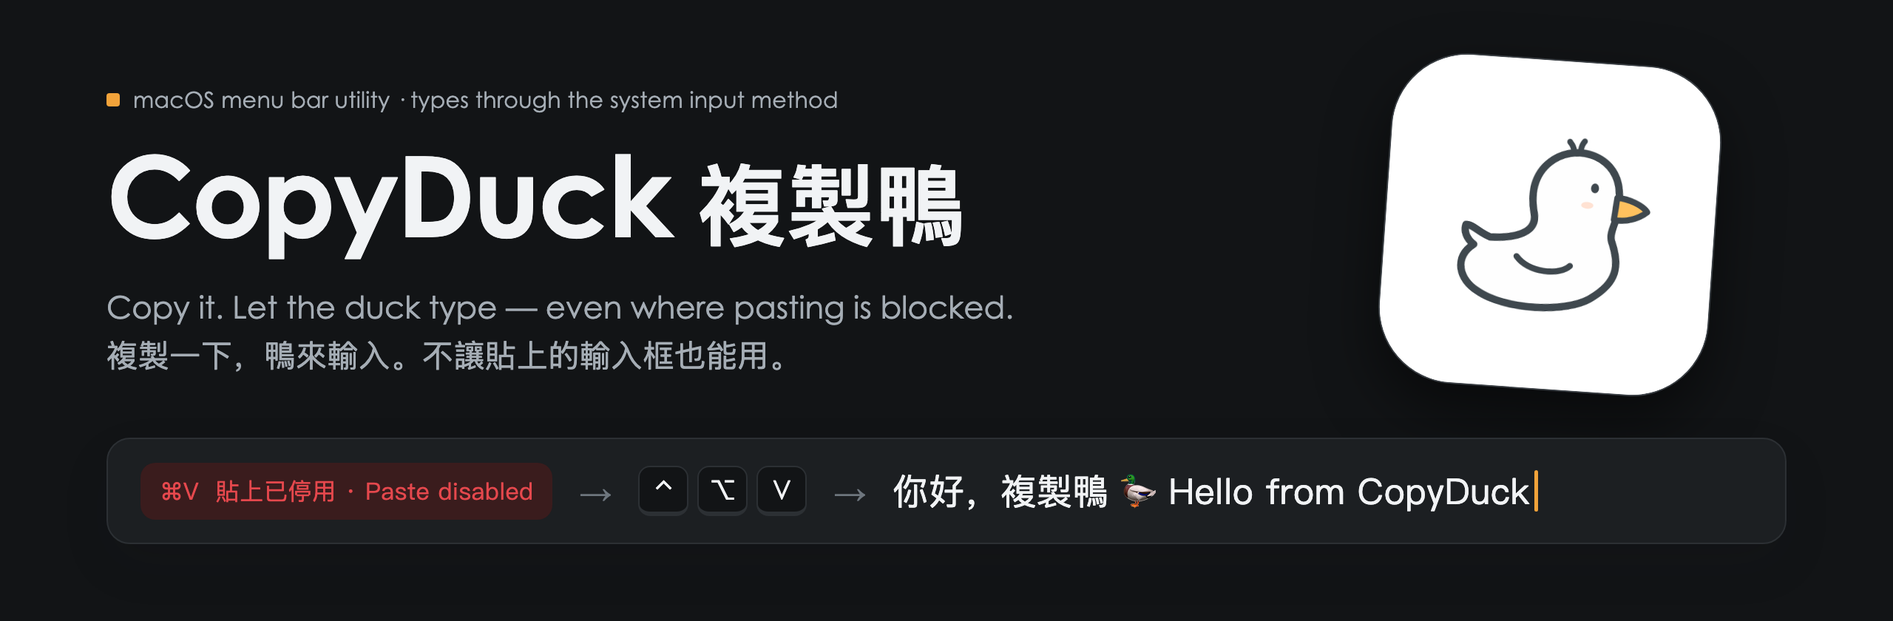
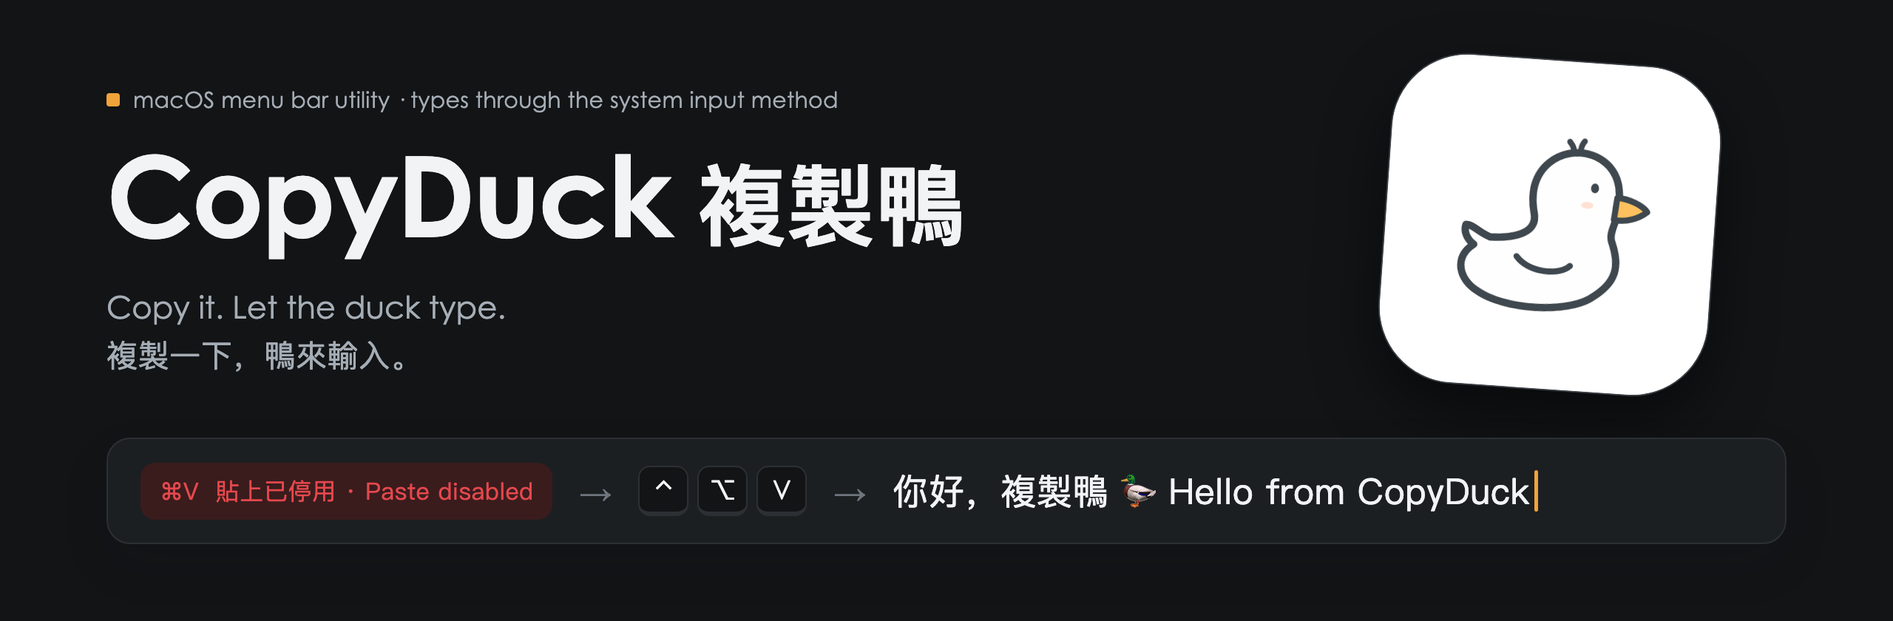
docs: drop the compatibility warning and tighten README copy
Remove the macOS compatibility and resource warning from the READMEs and
the three intro pages. Banners keep only the original tagline. The
requirements table now says Apple Silicon only instead of implying an
Intel build is coming.

Changed region(s): [[0.2188, 0.4643, 0.5312, 0.619]]

diff --git a/docs/en/index.html b/docs/en/index.html
@@ -6,7 +6,7 @@
 <link rel="canonical" href="https://yuanruoyu515.github.io/CopyDuck/en/index.html"><link rel="alternate" hreflang="zh-Hans" href="https://yuanruoyu515.github.io/CopyDuck/index.html"><link rel="alternate" hreflang="zh-Hant" href="https://yuanruoyu515.github.io/CopyDuck/zh-Hant/index.html"><link rel="alternate" hreflang="en" href="https://yuanruoyu515.github.io/CopyDuck/en/index.html"><link rel="icon" href="../assets/favicon.png"><link rel="stylesheet" href="../style.css"></head>
 <body><a class="skip" href="#main">Skip to content</a>
 <header><div class="top wrap"><a class="brand" href="../en/index.html"><img src="../assets/favicon.png" alt="" width="42" height="42">CopyDuck</a><nav class="language" aria-label="Choose language"><a href="../index.html" lang="zh-Hans" hreflang="zh-Hans">简体中文</a><a href="../zh-Hant/index.html" lang="zh-Hant" hreflang="zh-Hant">繁體中文</a><a href="../en/index.html" lang="en" hreflang="en" aria-current="page">English</a></nav></div></header>
-<main id="main" class="wrap"><aside class="compatibility-warning" role="note"><strong>⚠ Compatibility and resource usage warning</strong><p>Currently verified only on macOS 27.0.1. Compatibility with macOS versions earlier than 27 is not guaranteed. A user reported extremely high memory and CPU usage on macOS 26 with a version released before the startup fix; the newer version has not yet been verified on that system. If this occurs, quit CopyDuck; if it is unresponsive, end its process in Activity Monitor.</p></aside><section class="hero"><div><p class="eyebrow">A little duck for your Mac</p><h1>Copy it.<br>Let the duck type.</h1><p class="lead">💢 An input field blocks pasting or distinguishes pasted text from regular input, leaving you to type everything again?</p><p class="lead">🐤 CopyDuck is a lightweight macOS menu bar utility. Press a shortcut to insert plain text from your clipboard into the active input field through the system input method. It helps with some websites and apps that disable pasting or intercept paste shortcuts while still supporting system input methods, saving you from retyping long passages. It supports Chinese, English, line breaks and emoji. All text processing happens locally on your Mac, with no uploads or clipboard history.</p><div class="actions"><a class="button primary" href="https://github.com/yuanruoyu515/CopyDuck/releases/download/v1.2.3/CopyDuck-1.2.3-arm64.dmg">Download 1.2.3 <span aria-hidden="true">↓</span></a><a class="button" href="https://github.com/yuanruoyu515/CopyDuck">View source <span aria-hidden="true">↗</span></a></div><p class="compatibility">Apple Silicon · Minimum build target: macOS 14 · Verified only on macOS 27.0.1</p></div>
+<main id="main" class="wrap"><section class="hero"><div><p class="eyebrow">A little duck for your Mac</p><h1>Copy it.<br>Let the duck type.</h1><p class="lead">💢 An input field blocks pasting or distinguishes pasted text from regular input, leaving you to type everything again?</p><p class="lead">🐤 CopyDuck is a lightweight macOS menu bar utility. Press a shortcut to insert plain text from your clipboard into the active input field through the system input method. It helps with some websites and apps that disable pasting or intercept paste shortcuts while still supporting system input methods, saving you from retyping long passages. It supports Chinese, English, line breaks and emoji. All text processing happens locally on your Mac, with no uploads or clipboard history.</p><div class="actions"><a class="button primary" href="https://github.com/yuanruoyu515/CopyDuck/releases/download/v1.2.3/CopyDuck-1.2.3-arm64.dmg">Download 1.2.3 <span aria-hidden="true">↓</span></a><a class="button" href="https://github.com/yuanruoyu515/CopyDuck">View source <span aria-hidden="true">↗</span></a></div><p class="compatibility">Apple Silicon · Minimum build target: macOS 14 · Verified only on macOS 27.0.1</p></div>
 <div class="duck-stage"><div class="duck-card"><img src="../assets/duck.png" alt="" width="512" height="512" fetchpriority="high"></div><div class="shortcut"><span>Illustration · Default shortcut</span><div aria-label="Control Option V"><kbd>⌃</kbd> <kbd>⌥</kbd> <kbd>V</kbd></div></div><p class="example-text">Copy text → Click an input field → Press your shortcut</p></div></section>
 <section class="section"><div class="intro"><h2>💦 The inspiration</h2><p>The author was struggling to finish assignments in AP CSA when Albert was configured to block pasting. The workaround was to keep changing the input method’s text shortcuts to get the text into the field, bit by bit… That frustration led to CopyDuck.</p></div></section>
 <section class="section"><div class="intro"><h2>Give your clipboard an input method.</h2><p>CopyDuck appears under Simplified Chinese input sources. When you press the shortcut, it reads the latest clipboard text, temporarily selects its input source, inserts the whole text at once or types it character by character, then restores your previous input method. Copying something else while typing does not change the current request.</p></div><ol class="flow"><li><span class="number">01</span><h3>Copy</h3><p>Copy some plain text.</p></li><li><span class="number">02</span><h3>Focus</h3><p>Click where you want to type.</p></li><li><span class="number">03</span><h3>Insert</h3><p>Press your shortcut. Let the duck type.</p></li></ol><div class="features"><article><h3>Your shortcut</h3><p>Start with ⌃⌥V, or choose your own in Settings.</p></article><article><h3>A home in the menu bar</h3><p>No Dock icon. Closing Settings keeps the duck running.</p></article><article><h3>Optional launch at login</h3><p>Enable it when you want CopyDuck ready after login.</p></article><article><h3>Text stays on your Mac</h3><p>Reads the clipboard only when triggered. No history, no network connection.</p></article><article><h3>Simulated typing</h3><p>Switch between Normal and Simulated Typing in Settings or the menu bar. Medium, Fast and Very Fast average about 5, 10 and 20 characters per second, with pauses at punctuation and line breaks. Mode and speed are remembered; speed changes apply to the next request. Press the shortcut again, type manually or change input focus to stop. Text already entered is kept.</p></article><article><h3>Input reliability and resource cleanup</h3><p>Improve first-trigger behavior in Word and prevent unintended typing cancellation. Release the Settings view on close; clear text references, callbacks and scheduled tasks when input finishes or is cancelled.</p></article><article><h3>Three interface languages</h3><p>Use the globe in the top right of Settings to switch languages. Your choice is saved.</p></article></div></section>

diff --git a/docs/zh-Hant/index.html b/docs/zh-Hant/index.html
@@ -6,7 +6,7 @@
 <link rel="canonical" href="https://yuanruoyu515.github.io/CopyDuck/zh-Hant/index.html"><link rel="alternate" hreflang="zh-Hans" href="https://yuanruoyu515.github.io/CopyDuck/index.html"><link rel="alternate" hreflang="zh-Hant" href="https://yuanruoyu515.github.io/CopyDuck/zh-Hant/index.html"><link rel="alternate" hreflang="en" href="https://yuanruoyu515.github.io/CopyDuck/en/index.html"><link rel="icon" href="../assets/favicon.png"><link rel="stylesheet" href="../style.css"></head>
 <body><a class="skip" href="#main">跳至主要內容</a>
 <header><div class="top wrap"><a class="brand" href="../zh-Hant/index.html"><img src="../assets/favicon.png" alt="" width="42" height="42">複製鴨</a><nav class="language" aria-label="選擇語言"><a href="../index.html" lang="zh-Hans" hreflang="zh-Hans">简体中文</a><a href="../zh-Hant/index.html" lang="zh-Hant" hreflang="zh-Hant" aria-current="page">繁體中文</a><a href="../en/index.html" lang="en" hreflang="en">English</a></nav></div></header>
-<main id="main" class="wrap"><aside class="compatibility-warning" role="note"><strong>⚠ 相容性與資源占用提醒</strong><p>目前僅在 macOS 27.0.1 上驗證，不保證 macOS 27 以下版本可用。已有使用者回報：修復前版本在 macOS 26 上出現記憶體與 CPU 使用量異常飆升；新版在該系統上的表現仍待驗證。如遇異常，請立即結束複製鴨；無法結束時，可在「活動監視器」中結束 CopyDuck 程序。</p></aside><section class="hero"><div><p class="eyebrow">給 Mac 的小鴨子</p><h1>複製一下，<br>鴨來輸入。</h1><p class="lead">💢 輸入框不讓貼上，或是會區分貼上與一般輸入，讓你只能重新手打一遍？</p><p class="lead">🐤 複製鴨（CopyDuck）是一款輕量的 macOS 選單列工具：按下快捷鍵，就能透過系統輸入法，將剪貼簿中的純文字直接輸入目前的輸入框。它適用於部分停用貼上、攔截貼上快捷鍵，但仍支援系統輸入法的網頁和應用程式，減少重複輸入長段文字的麻煩。支援中文、英文、換行和表情，文字處理全程在本機完成，不上傳內容，也不儲存剪貼簿歷史。</p><div class="actions"><a class="button primary" href="https://github.com/yuanruoyu515/CopyDuck/releases/download/v1.2.3/CopyDuck-1.2.3-arm64.dmg">下載 1.2.3 <span aria-hidden="true">↓</span></a><a class="button" href="https://github.com/yuanruoyu515/CopyDuck">檢視原始碼 <span aria-hidden="true">↗</span></a></div><p class="compatibility">Apple Silicon · 建置最低版本 macOS 14 · 僅在 macOS 27.0.1 上驗證</p></div>
+<main id="main" class="wrap"><section class="hero"><div><p class="eyebrow">給 Mac 的小鴨子</p><h1>複製一下，<br>鴨來輸入。</h1><p class="lead">💢 輸入框不讓貼上，或是會區分貼上與一般輸入，讓你只能重新手打一遍？</p><p class="lead">🐤 複製鴨（CopyDuck）是一款輕量的 macOS 選單列工具：按下快捷鍵，就能透過系統輸入法，將剪貼簿中的純文字直接輸入目前的輸入框。它適用於部分停用貼上、攔截貼上快捷鍵，但仍支援系統輸入法的網頁和應用程式，減少重複輸入長段文字的麻煩。支援中文、英文、換行和表情，文字處理全程在本機完成，不上傳內容，也不儲存剪貼簿歷史。</p><div class="actions"><a class="button primary" href="https://github.com/yuanruoyu515/CopyDuck/releases/download/v1.2.3/CopyDuck-1.2.3-arm64.dmg">下載 1.2.3 <span aria-hidden="true">↓</span></a><a class="button" href="https://github.com/yuanruoyu515/CopyDuck">檢視原始碼 <span aria-hidden="true">↗</span></a></div><p class="compatibility">Apple Silicon · 建置最低版本 macOS 14 · 僅在 macOS 27.0.1 上驗證</p></div>
 <div class="duck-stage"><div class="duck-card"><img src="../assets/duck.png" alt="" width="512" height="512" fetchpriority="high"></div><div class="shortcut"><span>使用示意 · 預設快捷鍵</span><div aria-label="Control Option V"><kbd>⌃</kbd> <kbd>⌥</kbd> <kbd>V</kbd></div></div><p class="example-text">複製文字 → 點選輸入位置 → 按下快捷鍵</p></div></section>
 <section class="section"><div class="intro"><h2>💦 靈感來源</h2><p>作者上 AP CSA 課時趕不完作業，偏偏 Albert 又被設定成不能貼上，只好反覆修改輸入法的快捷輸入詞，把文字一點一點塞進去……於是，就有了複製鴨。</p></div></section>
 <section class="section"><div class="intro"><h2>像輸入法一樣，把文字寫進去。</h2><p>複製鴨可以加入「簡體中文」輸入法列表。觸發快捷鍵時，它讀取最新剪貼簿、暫時切換輸入來源，依選取的模式一次寫入整段或逐字輸入，再恢復原本的輸入法。輸入途中複製其他文字不會改變本次內容。</p></div><ol class="flow"><li><span class="number">01</span><h3>複製</h3><p>複製一段純文字。</p></li><li><span class="number">02</span><h3>定位</h3><p>點選要輸入文字的位置。</p></li><li><span class="number">03</span><h3>輸入</h3><p>按下快捷鍵，鴨來寫進去。</p></li></ol><div class="features"><article><h3>你的快捷鍵</h3><p>預設 ⌃⌥V，也可以在設定中換成順手的組合。</p></article><article><h3>待在選單列</h3><p>不占 Dock；關閉設定視窗，仍在背景等你。</p></article><article><h3>登入時啟動可選</h3><p>需要時開啟，登入 Mac 後自動執行。</p></article><article><h3>文字留在本機</h3><p>按快捷鍵時才讀取剪貼簿，不儲存歷史，不連接網路。</p></article><article><h3>模擬輸入</h3><p>在設定或選單列切換一般模式／模擬輸入。中速、快速、特別快約為每秒 5、10、20 字，標點與換行稍作停頓。會記住模式和速度；速度調整從下次輸入生效。再次按快捷鍵、手動打字或切換輸入位置即可停止，已輸入的文字會保留。</p></article><article><h3>輸入穩定與資源清理</h3><p>改善 Word 首次觸發與模擬輸入誤停。關閉設定時釋放介面；輸入結束或取消後清理文字參照、回呼與計時任務。</p></article><article><h3>三語介面</h3><p>點選設定視窗右上角的地球圖示切換語言，選擇會自動儲存。</p></article></div></section>

diff --git a/docs/index.html b/docs/index.html
@@ -6,7 +6,7 @@
 <link rel="canonical" href="https://yuanruoyu515.github.io/CopyDuck/index.html"><link rel="alternate" hreflang="zh-Hans" href="https://yuanruoyu515.github.io/CopyDuck/index.html"><link rel="alternate" hreflang="zh-Hant" href="https://yuanruoyu515.github.io/CopyDuck/zh-Hant/index.html"><link rel="alternate" hreflang="en" href="https://yuanruoyu515.github.io/CopyDuck/en/index.html"><link rel="icon" href="assets/favicon.png"><link rel="stylesheet" href="style.css"></head>
 <body><a class="skip" href="#main">跳到主要内容</a>
 <header><div class="top wrap"><a class="brand" href="index.html"><img src="assets/favicon.png" alt="" width="42" height="42">复制鸭</a><nav class="language" aria-label="选择语言"><a href="index.html" lang="zh-Hans" hreflang="zh-Hans" aria-current="page">简体中文</a><a href="zh-Hant/index.html" lang="zh-Hant" hreflang="zh-Hant">繁體中文</a><a href="en/index.html" lang="en" hreflang="en">English</a></nav></div></header>
-<main id="main" class="wrap"><aside class="compatibility-warning" role="note"><strong>⚠ 兼容性与资源占用提醒</strong><p>目前仅在 macOS 27.0.1 上验证，不保证 macOS 27 以下版本可用。已有用户反馈：修复前版本在 macOS 26 上出现内存与 CPU 占用异常飙升；新版在该系统上的表现仍待验证。如遇异常，请立即退出复制鸭；无法退出时，可在活动监视器中结束 CopyDuck 进程。</p></aside><section class="hero"><div><p class="eyebrow">给 Mac 的小鸭子</p><h1>复制一下，<br>鸭来输入。</h1><p class="lead">💢 输入框不让粘贴，或者会区分粘贴与正常输入，让你只能重新手打一遍？</p><p class="lead">🐤 复制鸭（CopyDuck）是一款轻量的 macOS 菜单栏工具：按下快捷键，就能通过系统输入法，将剪贴板中的纯文字直接输入当前输入框。它适用于部分禁用粘贴、拦截粘贴快捷键，但仍支持系统输入法的网页和应用，减少重复录入长段文字的麻烦。支持中文、英文、换行和表情，文字处理全程在本机完成，不上传内容，也不保存剪贴板历史。</p><div class="actions"><a class="button primary" href="https://github.com/yuanruoyu515/CopyDuck/releases/download/v1.2.3/CopyDuck-1.2.3-arm64.dmg">下载 1.2.3 <span aria-hidden="true">↓</span></a><a class="button" href="https://github.com/yuanruoyu515/CopyDuck">查看源码 <span aria-hidden="true">↗</span></a></div><p class="compatibility">Apple Silicon · 构建最低版本 macOS 14 · 仅在 macOS 27.0.1 上验证</p></div>
+<main id="main" class="wrap"><section class="hero"><div><p class="eyebrow">给 Mac 的小鸭子</p><h1>复制一下，<br>鸭来输入。</h1><p class="lead">💢 输入框不让粘贴，或者会区分粘贴与正常输入，让你只能重新手打一遍？</p><p class="lead">🐤 复制鸭（CopyDuck）是一款轻量的 macOS 菜单栏工具：按下快捷键，就能通过系统输入法，将剪贴板中的纯文字直接输入当前输入框。它适用于部分禁用粘贴、拦截粘贴快捷键，但仍支持系统输入法的网页和应用，减少重复录入长段文字的麻烦。支持中文、英文、换行和表情，文字处理全程在本机完成，不上传内容，也不保存剪贴板历史。</p><div class="actions"><a class="button primary" href="https://github.com/yuanruoyu515/CopyDuck/releases/download/v1.2.3/CopyDuck-1.2.3-arm64.dmg">下载 1.2.3 <span aria-hidden="true">↓</span></a><a class="button" href="https://github.com/yuanruoyu515/CopyDuck">查看源码 <span aria-hidden="true">↗</span></a></div><p class="compatibility">Apple Silicon · 构建最低版本 macOS 14 · 仅在 macOS 27.0.1 上验证</p></div>
 <div class="duck-stage"><div class="duck-card"><img src="assets/duck.png" alt="" width="512" height="512" fetchpriority="high"></div><div class="shortcut"><span>使用示意 · 默认快捷键</span><div aria-label="Control Option V"><kbd>⌃</kbd> <kbd>⌥</kbd> <kbd>V</kbd></div></div><p class="example-text">复制文字 → 点击输入位置 → 按下快捷键</p></div></section>
 <section class="section"><div class="intro"><h2>💦 灵感来源</h2><p>作者在上 AP CSA 课时赶不完作业，偏偏 Albert 又被设置成不能粘贴，只好反复修改输入法的快捷输入词，把文字一点点塞进去……于是，就有了复制鸭。</p></div></section>
 <section class="section"><div class="intro"><h2>像输入法一样，把文字写进去。</h2><p>复制鸭可以添加到“简体中文”输入法列表。触发快捷键时，它读取最新剪贴板、临时切换输入源，按所选模式一次写入整段或逐字输入，再恢复你原来的输入法。输入途中复制其他文字不会改变本次内容。</p></div><ol class="flow"><li><span class="number">01</span><h3>复制</h3><p>复制一段纯文字。</p></li><li><span class="number">02</span><h3>定位</h3><p>点击要输入文字的位置。</p></li><li><span class="number">03</span><h3>输入</h3><p>按下快捷键，鸭来写进去。</p></li></ol><div class="features"><article><h3>你的快捷键</h3><p>默认 ⌃⌥V，也可以在设置中换成顺手的组合。</p></article><article><h3>待在菜单栏</h3><p>不占 Dock；关掉设置窗口，仍在后台等你。</p></article><article><h3>开机启动可选</h3><p>需要时开启，登录 Mac 后自动运行。</p></article><article><h3>文字留在本机</h3><p>按快捷键时才读取剪贴板，不保存历史，不连接网络。</p></article><article><h3>模拟输入</h3><p>在设置或菜单栏切换普通模式／模拟输入。中速、快速、特别快约为每秒 5、10、20 字，标点和换行稍作停顿。模式和速度会记住；速度调整从下次输入生效。再次按快捷键、手动打字或切换输入位置可停止，已输入的文字会保留。</p></article><article><h3>输入稳定与资源清理</h3><p>改善 Word 首次触发和模拟输入误停。关闭设置时释放界面；输入结束或取消后清理文字引用、回调和定时任务。</p></article><article><h3>三语界面</h3><p>点击设置窗口右上角的地球图标切换语言，选择会自动保存。</p></article></div></section>

diff --git a/docs/style.css b/docs/style.css
@@ -7,6 +7,3 @@
 .features article:last-child{grid-column:1/-1;max-width:730px}
 
 /* Keep the compatibility notice visible before the download call to action. */
-.compatibility-warning { margin-top: 24px; padding: 18px 22px; border: 1px solid #e8b74f; border-left: 5px solid #b26b00; border-radius: 12px; background: #fff4d6; color: #553800; }
-.compatibility-warning strong { display: block; font-size: 16px; }
-.compatibility-warning p { margin: 8px 0 0; line-height: 1.7; }

diff --git a/website/style.css b/website/style.css
@@ -7,6 +7,3 @@
 .features article:last-child{grid-column:1/-1;max-width:730px}
 
 /* Keep the compatibility notice visible before the download call to action. */
-.compatibility-warning { margin-top: 24px; padding: 18px 22px; border: 1px solid #e8b74f; border-left: 5px solid #b26b00; border-radius: 12px; background: #fff4d6; color: #553800; }
-.compatibility-warning strong { display: block; font-size: 16px; }
-.compatibility-warning p { margin: 8px 0 0; line-height: 1.7; }

diff --git a/scripts/build_site.py b/scripts/build_site.py
@@ -36,7 +36,7 @@ for language, text in config["languages"].items():
 <link rel="canonical" href="{homepage}{paths[language]}">{alternates}<link rel="icon" href="{prefix}assets/favicon.png"><link rel="stylesheet" href="{prefix}style.css"></head>
 <body><a class="skip" href="#main">{text['skip']}</a>
 <header><div class="top wrap"><a class="brand" href="{prefix}{paths[language]}"><img src="{prefix}assets/favicon.png" alt="" width="42" height="42">{text['name']}</a><nav class="language" aria-label="{text['language']}">{nav}</nav></div></header>
-<main id="main" class="wrap"><aside class="compatibility-warning" role="note"><strong>⚠ {escape(text['compatibilityWarningTitle'])}</strong><p>{escape(text['compatibilityWarning'])}</p></aside><section class="hero"><div><p class="eyebrow">{text['eyebrow']}</p><h1>{text['heroTitle'][0]}<br>{text['heroTitle'][1]}</h1><p class="lead">{escape(text['pain'])}</p><p class="lead">{text['description']}</p><div class="actions"><a class="button primary" href="{download(current_version, 'dmg')}">{text['download']} <span aria-hidden="true">↓</span></a><a class="button" href="{repo}">{text['source']} <span aria-hidden="true">↗</span></a></div><p class="compatibility">{text['compatibility']}</p></div>
+<main id="main" class="wrap"><section class="hero"><div><p class="eyebrow">{text['eyebrow']}</p><h1>{text['heroTitle'][0]}<br>{text['heroTitle'][1]}</h1><p class="lead">{escape(text['pain'])}</p><p class="lead">{text['description']}</p><div class="actions"><a class="button primary" href="{download(current_version, 'dmg')}">{text['download']} <span aria-hidden="true">↓</span></a><a class="button" href="{repo}">{text['source']} <span aria-hidden="true">↗</span></a></div><p class="compatibility">{text['compatibility']}</p></div>
 <div class="duck-stage"><div class="duck-card"><img src="{prefix}assets/duck.png" alt="" width="512" height="512" fetchpriority="high"></div><div class="shortcut"><span>{text['example']}</span><div aria-label="Control Option V"><kbd>⌃</kbd> <kbd>⌥</kbd> <kbd>V</kbd></div></div><p class="example-text">{text['exampleCaption']}</p></div></section>
 <section class="section"><div class="intro"><h2>{text['originTitle']}</h2><p>{escape(text['origin'])}</p></div></section>\n<section class="section"><div class="intro"><h2>{text['howTitle']}</h2><p>{text['howBody']}</p></div><ol class="flow">{flow}</ol><div class="features">{features}</div></section>
 <section class="section screenshots"><h2>{text['screenshotsTitle']}</h2><p class="intro">{text['screenshotsNote']}</p><div class="screenshot-grid">{screenshots}</div></section>
@@ -85,10 +85,6 @@ for language, text in config["languages"].items():
 {text['description']}
 
 **{text['originTitle']}**　{text['origin']}
-
-> [!WARNING]
-> **{text['compatibilityWarningTitle']}**
-> {text['compatibilityWarning']}
 
 ## {icon('cursor-click')} {text['readmeFeatures']}
 

diff --git a/README.en.md b/README.en.md
@@ -19,10 +19,6 @@
 
 **💦 The inspiration**　The author was struggling to finish assignments in AP CSA when Albert was configured to block pasting. The workaround was to keep changing the input method’s text shortcuts to get the text into the field, bit by bit… That frustration led to CopyDuck.
 
-> [!WARNING]
-> **Compatibility and resource usage warning**
-> Currently verified only on macOS 27.0.1. Compatibility with macOS versions earlier than 27 is not guaranteed. A user reported extremely high memory and CPU usage on macOS 26 with a version released before the startup fix; the newer version has not yet been verified on that system. If this occurs, quit CopyDuck; if it is unresponsive, end its process in Activity Monitor.
-
 ## <img src="assets/readme/icons/cursor-click.svg" width="20" height="20" align="top"> Features
 
 - **Your shortcut**: Start with ⌃⌥V, or choose your own in Settings.
@@ -89,7 +85,7 @@ Default shortcut: <kbd>⌃</kbd> <kbd>⌥</kbd> <kbd>V</kbd> (Control + Option +
 
 | | |
 | --- | --- |
-| Chip | Apple Silicon (no Intel build yet) |
+| Chip | Apple Silicon only |
 | macOS | Minimum build target macOS 14. Verified only on macOS 27.0.1 |
 | Input field | Must support system input methods. Some secure fields or custom controls may restrict input |
 | Signing | Locally signed, without Developer ID signing or Apple notarization |

diff --git a/README.zh-Hant.md b/README.zh-Hant.md
@@ -19,10 +19,6 @@
 
 **💦 靈感來源**　作者上 AP CSA 課時趕不完作業，偏偏 Albert 又被設定成不能貼上，只好反覆修改輸入法的快捷輸入詞，把文字一點一點塞進去……於是，就有了複製鴨。
 
-> [!WARNING]
-> **相容性與資源占用提醒**
-> 目前僅在 macOS 27.0.1 上驗證，不保證 macOS 27 以下版本可用。已有使用者回報：修復前版本在 macOS 26 上出現記憶體與 CPU 使用量異常飆升；新版在該系統上的表現仍待驗證。如遇異常，請立即結束複製鴨；無法結束時，可在「活動監視器」中結束 CopyDuck 程序。
-
 ## <img src="assets/readme/icons/cursor-click.svg" width="20" height="20" align="top"> 功能
 
 - **你的快捷鍵**：預設 ⌃⌥V，也可以在設定中換成順手的組合。
@@ -89,7 +85,7 @@ Apple Silicon · 建置最低版本 macOS 14 · 僅在 macOS 27.0.1 上驗證
 
 | | |
 | --- | --- |
-| 晶片 | Apple Silicon（暫無 Intel 版本） |
+| 晶片 | 只有 Apple Silicon 版本 |
 | 系統 | 建置最低版本 macOS 14，目前僅在 macOS 27.0.1 上驗證 |
 | 輸入框 | 須支援系統輸入法；部分安全輸入框或自訂控制項可能限制輸入 |
 | 簽署 | 本機簽署，尚未使用 Developer ID 簽署或 Apple 公證 |

diff --git a/README.md b/README.md
@@ -19,10 +19,6 @@
 
 **💦 灵感来源**　作者在上 AP CSA 课时赶不完作业，偏偏 Albert 又被设置成不能粘贴，只好反复修改输入法的快捷输入词，把文字一点点塞进去……于是，就有了复制鸭。
 
-> [!WARNING]
-> **兼容性与资源占用提醒**
-> 目前仅在 macOS 27.0.1 上验证，不保证 macOS 27 以下版本可用。已有用户反馈：修复前版本在 macOS 26 上出现内存与 CPU 占用异常飙升；新版在该系统上的表现仍待验证。如遇异常，请立即退出复制鸭；无法退出时，可在活动监视器中结束 CopyDuck 进程。
-
 ## <img src="assets/readme/icons/cursor-click.svg" width="20" height="20" align="top"> 功能
 
 - **你的快捷键**：默认 ⌃⌥V，也可以在设置中换成顺手的组合。
@@ -89,7 +85,7 @@ Apple Silicon · 构建最低版本 macOS 14 · 仅在 macOS 27.0.1 上验证
 
 | | |
 | --- | --- |
-| 芯片 | Apple Silicon（暂无 Intel 版本） |
+| 芯片 | 只有 Apple Silicon 版本 |
 | 系统 | 构建最低版本 macOS 14，目前仅在 macOS 27.0.1 上验证 |
 | 输入框 | 需要支持系统输入法；部分安全输入框或自定义控件可能限制输入 |
 | 签名 | 本机签名，尚未使用 Developer ID 签名或 Apple 公证 |
